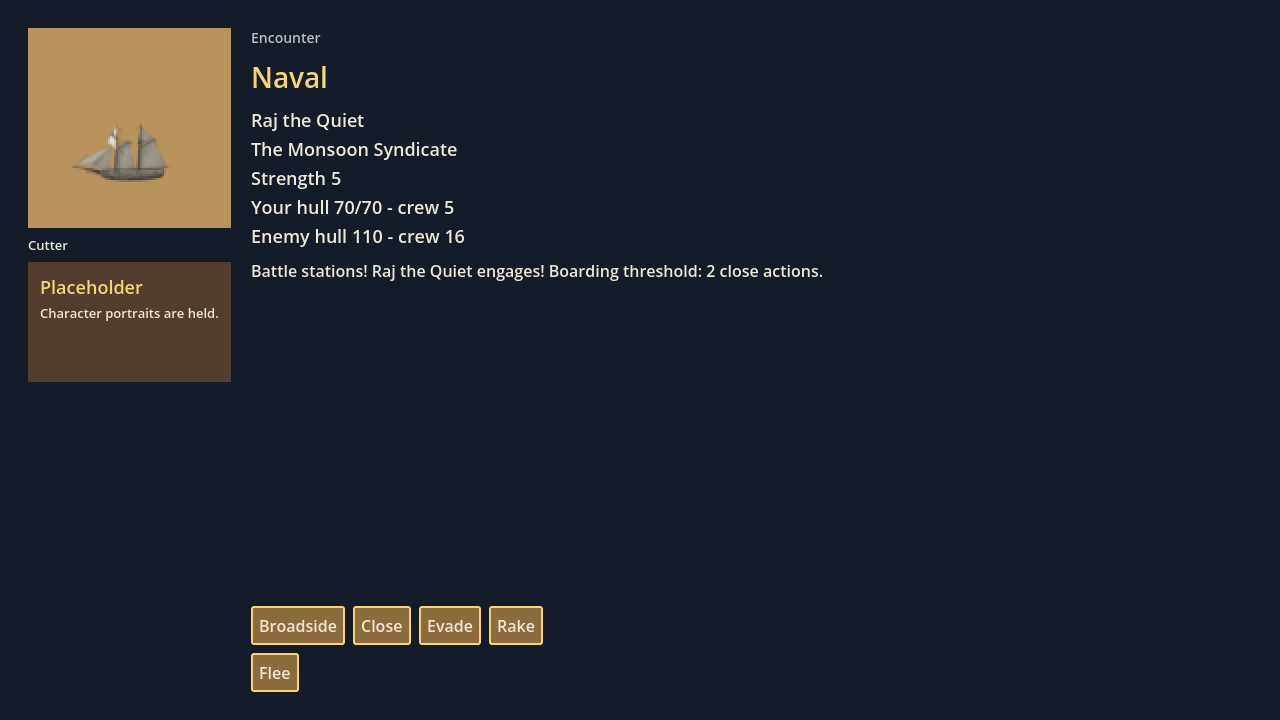
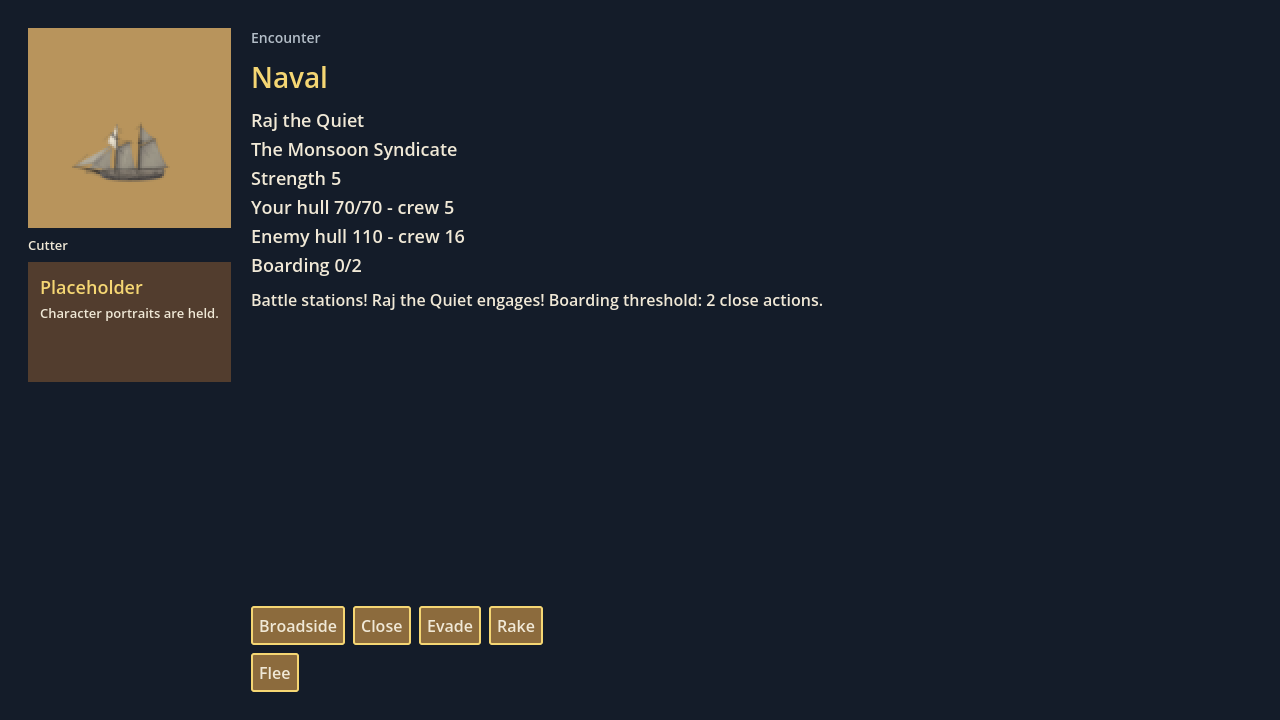
CB1: boarding meter on the Naval card (#73)
Godot-only Naval card line Boarding p/t from the sim step (hidden outside Naval / at threshold 0). Scripted start logs the port fee via departed_line. One frame: encounter-naval.png.

Gates: Reviewer PASS at 740893b (tip is that commit plus two origin/main merges; encounter-naval sha256 unchanged e44b3c23…), GD APPROVED, AD PASS soft, CI green on 3267923e (test/coverage/oracle/godot/audit + codecov).

Changed region(s): [[0.1875, 0.3667, 0.6562, 0.4278]]

diff --git a/crates/portlight-godot/src/logic.rs b/crates/portlight-godot/src/logic.rs
@@ -412,6 +412,9 @@ pub(crate) struct EncounterFacts {
     pub at_sea: bool,
     /// `false` until [`Session::encounter_choice_with`] has opened it.
     pub on_session: bool,
+    /// Boarding meter from the step: progress and threshold. `None` when the
+    /// step has no threshold (not a naval fight).
+    pub boarding: Option<(i64, i64)>,
     pub naval_actions: Vec<String>,
     pub combat_actions: Vec<String>,
     /// World reading taken when the encounter opened (section 10.3). Godot
@@ -773,6 +776,8 @@ pub(crate) fn facts_from_step(input: StepInput<'_>) -> EncounterFacts {
     // Damage amounts are non-negative. The line shows them as signed HP changes.
     facts.player_hp_delta = -step.damage_to_player;
     facts.opponent_hp_delta = -step.damage_to_opponent;
+    facts.boarding =
+        (step.boarding_threshold > 0).then_some((step.boarding_progress, step.boarding_threshold));
     facts.naval_actions = input.naval_actions.to_vec();
     facts.combat_actions = input.combat_actions.to_vec();
     facts
@@ -1002,6 +1007,11 @@ fn delta_spans(facts: &EncounterFacts) -> Vec<DeltaSpan> {
     spans
 }
 
+/// `Boarding 1/3`: the sim's own two numbers.
+pub(crate) fn boarding_line(progress: i64, threshold: i64) -> String {
+    format!("Boarding {progress}/{threshold}")
+}
+
 fn card_text(facts: &EncounterFacts, phase: ScreenPhase) -> String {
     let mut lines = Vec::new();
     if !facts.captain_name.is_empty() {
@@ -1033,6 +1043,12 @@ fn card_text(facts: &EncounterFacts, phase: ScreenPhase) -> String {
                 Some(max) => format!("Enemy hull {hull}/{max} - crew {crew}"),
                 None => format!("Enemy hull {hull} - crew {crew}"),
             });
+        }
+    }
+    // State, not a delta: shown at 0/N too. Naval phase only.
+    if phase == ScreenPhase::Naval {
+        if let Some((progress, threshold)) = facts.boarding.filter(|(_, max)| *max > 0) {
+            lines.push(boarding_line(progress, threshold));
         }
     }
     if phase == ScreenPhase::Personal && facts.kind == "fight" {
@@ -1083,6 +1099,7 @@ fn facts_shell(phase: &str, kind: &str, ship: Option<PlayerShip>, at_sea: bool) 
         pending_victory: false,
         at_sea,
         on_session: false,
+        boarding: None,
         naval_actions: Vec::new(),
         combat_actions: Vec::new(),
         baseline: None,
@@ -3153,6 +3170,64 @@ mod tests {
         );
     }
 
+    fn naval_facts() -> EncounterFacts {
+        let mut facts = facts_for_catalog_captain(
+            "raj_the_quiet",
+            Some(PlayerShip {
+                hull: 18,
+                hull_max: 20,
+                crew: 4,
+            }),
+            true,
+        )
+        .unwrap();
+        facts.enemy_hull = Some(40);
+        facts.enemy_hull_max = Some(50);
+        facts.enemy_crew = Some(8);
+        facts
+    }
+
+    #[test]
+    fn naval_card_shows_boarding_progress() {
+        let mut facts = naval_facts();
+        facts.boarding = Some((0, 3));
+        let card = card_text(&facts, ScreenPhase::Naval);
+        assert!(card.lines().any(|line| line == "Boarding 0/3"), "{card}");
+        facts.boarding = Some((2, 3));
+        let card = card_text(&facts, ScreenPhase::Naval);
+        let lines: Vec<&str> = card.lines().collect();
+        assert_eq!(lines.last(), Some(&"Boarding 2/3"), "{card}");
+        // After the enemy hull line.
+        let enemy = lines
+            .iter()
+            .position(|l| l.starts_with("Enemy hull"))
+            .unwrap();
+        assert_eq!(lines[enemy + 1], "Boarding 2/3");
+    }
+
+    #[test]
+    fn boarding_line_hidden_outside_naval() {
+        let mut facts = naval_facts();
+        facts.boarding = Some((1, 3));
+        for phase in [
+            ScreenPhase::Approach,
+            ScreenPhase::Boarding,
+            ScreenPhase::Personal,
+            ScreenPhase::Outcome,
+        ] {
+            assert!(!card_text(&facts, phase).contains("Boarding "), "{phase:?}");
+        }
+    }
+
+    #[test]
+    fn boarding_line_hidden_at_threshold_zero() {
+        let mut facts = naval_facts();
+        facts.boarding = Some((0, 0));
+        assert!(!card_text(&facts, ScreenPhase::Naval).contains("Boarding "));
+        facts.boarding = None;
+        assert!(!card_text(&facts, ScreenPhase::Naval).contains("Boarding "));
+    }
+
     #[test]
     fn card_text_is_ascii_in_every_phase() {
         let mut facts = facts_for_catalog_captain(
@@ -3171,6 +3246,7 @@ mod tests {
         facts.enemy_crew = Some(8);
         facts.player_hp = 12;
         facts.opponent_hp = 9;
+        facts.boarding = Some((1, 3));
         for phase in [
             ScreenPhase::Approach,
             ScreenPhase::Naval,

diff --git a/crates/portlight-godot/src/game.rs b/crates/portlight-godot/src/game.rs
@@ -701,6 +701,8 @@ struct PortlightGame {
     /// T-N. GOLD paid lines at the top of the Market box until the next
     /// trade, Market close, undock or Next day.
     market_notice: Vec<String>,
+    /// Highest boarding progress read off the naval card in the smoke.
+    boarding_seen: i64,
     /// Offer id of a trade settle paused after its first partial sale.
     settle_resume: Option<String>,
     /// `--trade-smoke`: Qty 10 buy, sail, Qty 10 sell that settles a contract.
@@ -876,6 +878,7 @@ impl IControl for PortlightGame {
             departure_shot_dir: None,
             trade_qty: market::TRADE_QTYS[0],
             market_notice: Vec::new(),
+            boarding_seen: 0,
             settle_resume: None,
             trade_checked: false,
             market_paid_shot_dir: None,
@@ -10364,15 +10367,17 @@ impl PortlightGame {
         self.encounter = None;
         self.scripted_captain = None;
         match Session::new(SCRIPTED_NAME, SCRIPTED_CAPTAIN_TYPE, SCRIPTED_SEED, None) {
-            Ok(mut session) => match session.depart(SCRIPTED_DEPART) {
-                Ok(()) => {
-                    let place = session
-                        .world()
-                        .port(SCRIPTED_DEPART)
-                        .map(|port| port.name.clone())
-                        .unwrap_or_else(|| SCRIPTED_DEPART.to_string());
+            Ok(mut session) => match scripted_depart(&mut session) {
+                Ok(fee) => {
+                    let place = display_or_humanized(
+                        session
+                            .world()
+                            .port(SCRIPTED_DEPART)
+                            .map(|port| port.name.as_str()),
+                        SCRIPTED_DEPART,
+                    );
                     self.session = Some(session);
-                    self.push_log(format!("Departed for {place}."));
+                    self.push_log(departed_line(&place, fee));
                 }
                 Err(err) => {
                     self.smoke_ok = false;
@@ -10397,6 +10402,42 @@ impl PortlightGame {
                 return;
             }
             self.play_naval(action);
+            self.check_boarding_meter(action);
+        }
+    }
+
+    /// While the card is still the Naval one, it shows `Boarding p/t`, and
+    /// progress never goes down across rounds.
+    fn check_boarding_meter(&mut self, action: &str) {
+        if !self.phase_is(ScreenPhase::Naval) {
+            return;
+        }
+        let card = self
+            .encounter_nodes
+            .as_ref()
+            .map(|nodes| nodes.card.get_text().to_string())
+            .unwrap_or_default();
+        let progress = card
+            .lines()
+            .find_map(|line| line.strip_prefix("Boarding "))
+            .and_then(|rest| rest.split_once('/'))
+            .and_then(|(done, max)| Some((done.parse::<i64>().ok()?, max.parse::<i64>().ok()?)));
+        match progress {
+            Some((done, max)) if done >= self.boarding_seen && max > 0 && done <= max => {
+                self.boarding_seen = done;
+                godot_print!(
+                    "Encounter smoke: after {action} the card reads Boarding {done}/{max}"
+                );
+            }
+            other => {
+                self.smoke_ok = false;
+                let line = format!(
+                    "Encounter smoke: after {action} the naval card boarding line was {other:?} (was {}): {card:?}",
+                    self.boarding_seen
+                );
+                godot_print!("{line}");
+                self.push_log(line);
+            }
         }
     }
 
@@ -11270,6 +11311,13 @@ fn contract_strip_frames_requested(shot_set: bool) -> bool {
 
 fn contract_strip_shot_dir(shot: Option<&str>) -> String {
     newgame_shot_dir(shot)
+}
+
+/// Departs for the scripted port and returns the fee the session took.
+fn scripted_depart(session: &mut Session) -> Result<i64, portlight_sim::error::SimError> {
+    let silver_before = session.world().captain.silver;
+    session.depart(SCRIPTED_DEPART)?;
+    Ok(silver_before - session.world().captain.silver)
 }
 
 fn market_paid_frames_requested(shot_set: bool) -> bool {
